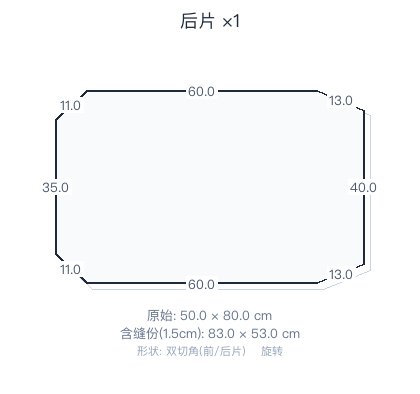
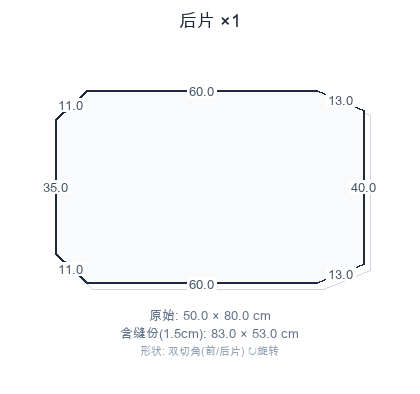
fix: 优化跨平台字体加载逻辑并更新静态资源
1. 重构两个文件的字体获取函数，增加字体缓存适配多系统
2. 新增Darwin、Windows和Linux平台的字体候选路径
3. 更新了一批静态裁片图片资源

diff --git a/piece_generator.py b/piece_generator.py
@@ -12,21 +12,55 @@ import math
 import base64
 import io
 import os
+import platform
 from PIL import Image, ImageDraw, ImageFont
 
+_FONT_CACHE = {}
 
 def _get_font(size=14):
-    font_paths = [
-        "/System/Library/Fonts/PingFang.ttc",
-        "/System/Library/Fonts/STHeiti Light.ttc",
-        "/System/Library/Fonts/STHeiti Medium.ttc",
-    ]
-    for path in font_paths:
-        try:
-            return ImageFont.truetype(path, size)
-        except (IOError, OSError):
-            continue
-    return ImageFont.load_default()
+    cache_key = size
+    if cache_key in _FONT_CACHE:
+        return _FONT_CACHE[cache_key]
+
+    system = platform.system()
+    candidates = []
+
+    if system == "Darwin":
+        candidates = [
+            ("/System/Library/Fonts/Supplemental/Arial Unicode.ttf", 0),
+            ("/System/Library/Fonts/PingFang.ttc", 0),
+            ("/System/Library/Fonts/STHeiti Medium.ttc", 0),
+            ("/System/Library/Fonts/Hiragino Sans GB.ttc", 0),
+        ]
+    elif system == "Windows":
+        windir = os.environ.get("SystemRoot", "C:\\Windows")
+        font_dir = os.path.join(windir, "Fonts")
+        candidates = [
+            (os.path.join(font_dir, "msyh.ttc"), 0),
+            (os.path.join(font_dir, "msyhbd.ttc"), 0),
+            (os.path.join(font_dir, "simsun.ttc"), 0),
+            (os.path.join(font_dir, "simhei.ttf"), 0),
+        ]
+    else:
+        candidates = [
+            ("/usr/share/fonts/truetype/wqy/wqy-zenhei.ttc", 0),
+            ("/usr/share/fonts/opentype/noto/NotoSansCJK-Regular.ttc", 0),
+            ("/usr/share/fonts/truetype/droid/DroidSansFallbackFull.ttf", 0),
+            ("/usr/share/fonts/truetype/arphic/uming.ttc", 0),
+        ]
+
+    for path, index in candidates:
+        if os.path.exists(path):
+            try:
+                font = ImageFont.truetype(path, size, index=index)
+                _FONT_CACHE[cache_key] = font
+                return font
+            except (IOError, OSError):
+                continue
+
+    default = ImageFont.load_default()
+    _FONT_CACHE[cache_key] = default
+    return default
 
 
 def generate_piece_vertices(w, h, shape, shoulder_width=0, sleeve_cap_width=0, cuff_width=0):

diff --git a/image_generator.py b/image_generator.py
@@ -8,27 +8,52 @@ import math
 import base64
 import io
 import os
+import platform
 from PIL import Image, ImageDraw, ImageFont
 
 
-# ============================================================
-# 字体配置
-# ============================================================
+_IMG_FONT_CACHE = {}
 
 def _get_font(size=14):
-    """获取中文字体"""
-    font_paths = [
-        "/System/Library/Fonts/PingFang.ttc",
-        "/System/Library/Fonts/STHeiti Light.ttc",
-        "/System/Library/Fonts/STHeiti Medium.ttc",
-        "/usr/share/fonts/truetype/wqy/wqy-zenhei.ttc",
-    ]
-    for path in font_paths:
-        try:
-            return ImageFont.truetype(path, size)
-        except (IOError, OSError):
-            continue
-    return ImageFont.load_default()
+    if size in _IMG_FONT_CACHE:
+        return _IMG_FONT_CACHE[size]
+
+    system = platform.system()
+    candidates = []
+
+    if system == "Darwin":
+        candidates = [
+            ("/System/Library/Fonts/Supplemental/Arial Unicode.ttf", 0),
+            ("/System/Library/Fonts/PingFang.ttc", 0),
+            ("/System/Library/Fonts/STHeiti Medium.ttc", 0),
+        ]
+    elif system == "Windows":
+        windir = os.environ.get("SystemRoot", "C:\\Windows")
+        font_dir = os.path.join(windir, "Fonts")
+        candidates = [
+            (os.path.join(font_dir, "msyh.ttc"), 0),
+            (os.path.join(font_dir, "simsun.ttc"), 0),
+            (os.path.join(font_dir, "simhei.ttf"), 0),
+        ]
+    else:
+        candidates = [
+            ("/usr/share/fonts/truetype/wqy/wqy-zenhei.ttc", 0),
+            ("/usr/share/fonts/opentype/noto/NotoSansCJK-Regular.ttc", 0),
+            ("/usr/share/fonts/truetype/droid/DroidSansFallbackFull.ttf", 0),
+        ]
+
+    for path, index in candidates:
+        if os.path.exists(path):
+            try:
+                font = ImageFont.truetype(path, size, index=index)
+                _IMG_FONT_CACHE[size] = font
+                return font
+            except (IOError, OSError):
+                continue
+
+    default = ImageFont.load_default()
+    _IMG_FONT_CACHE[size] = default
+    return default
 
 
 # ============================================================
